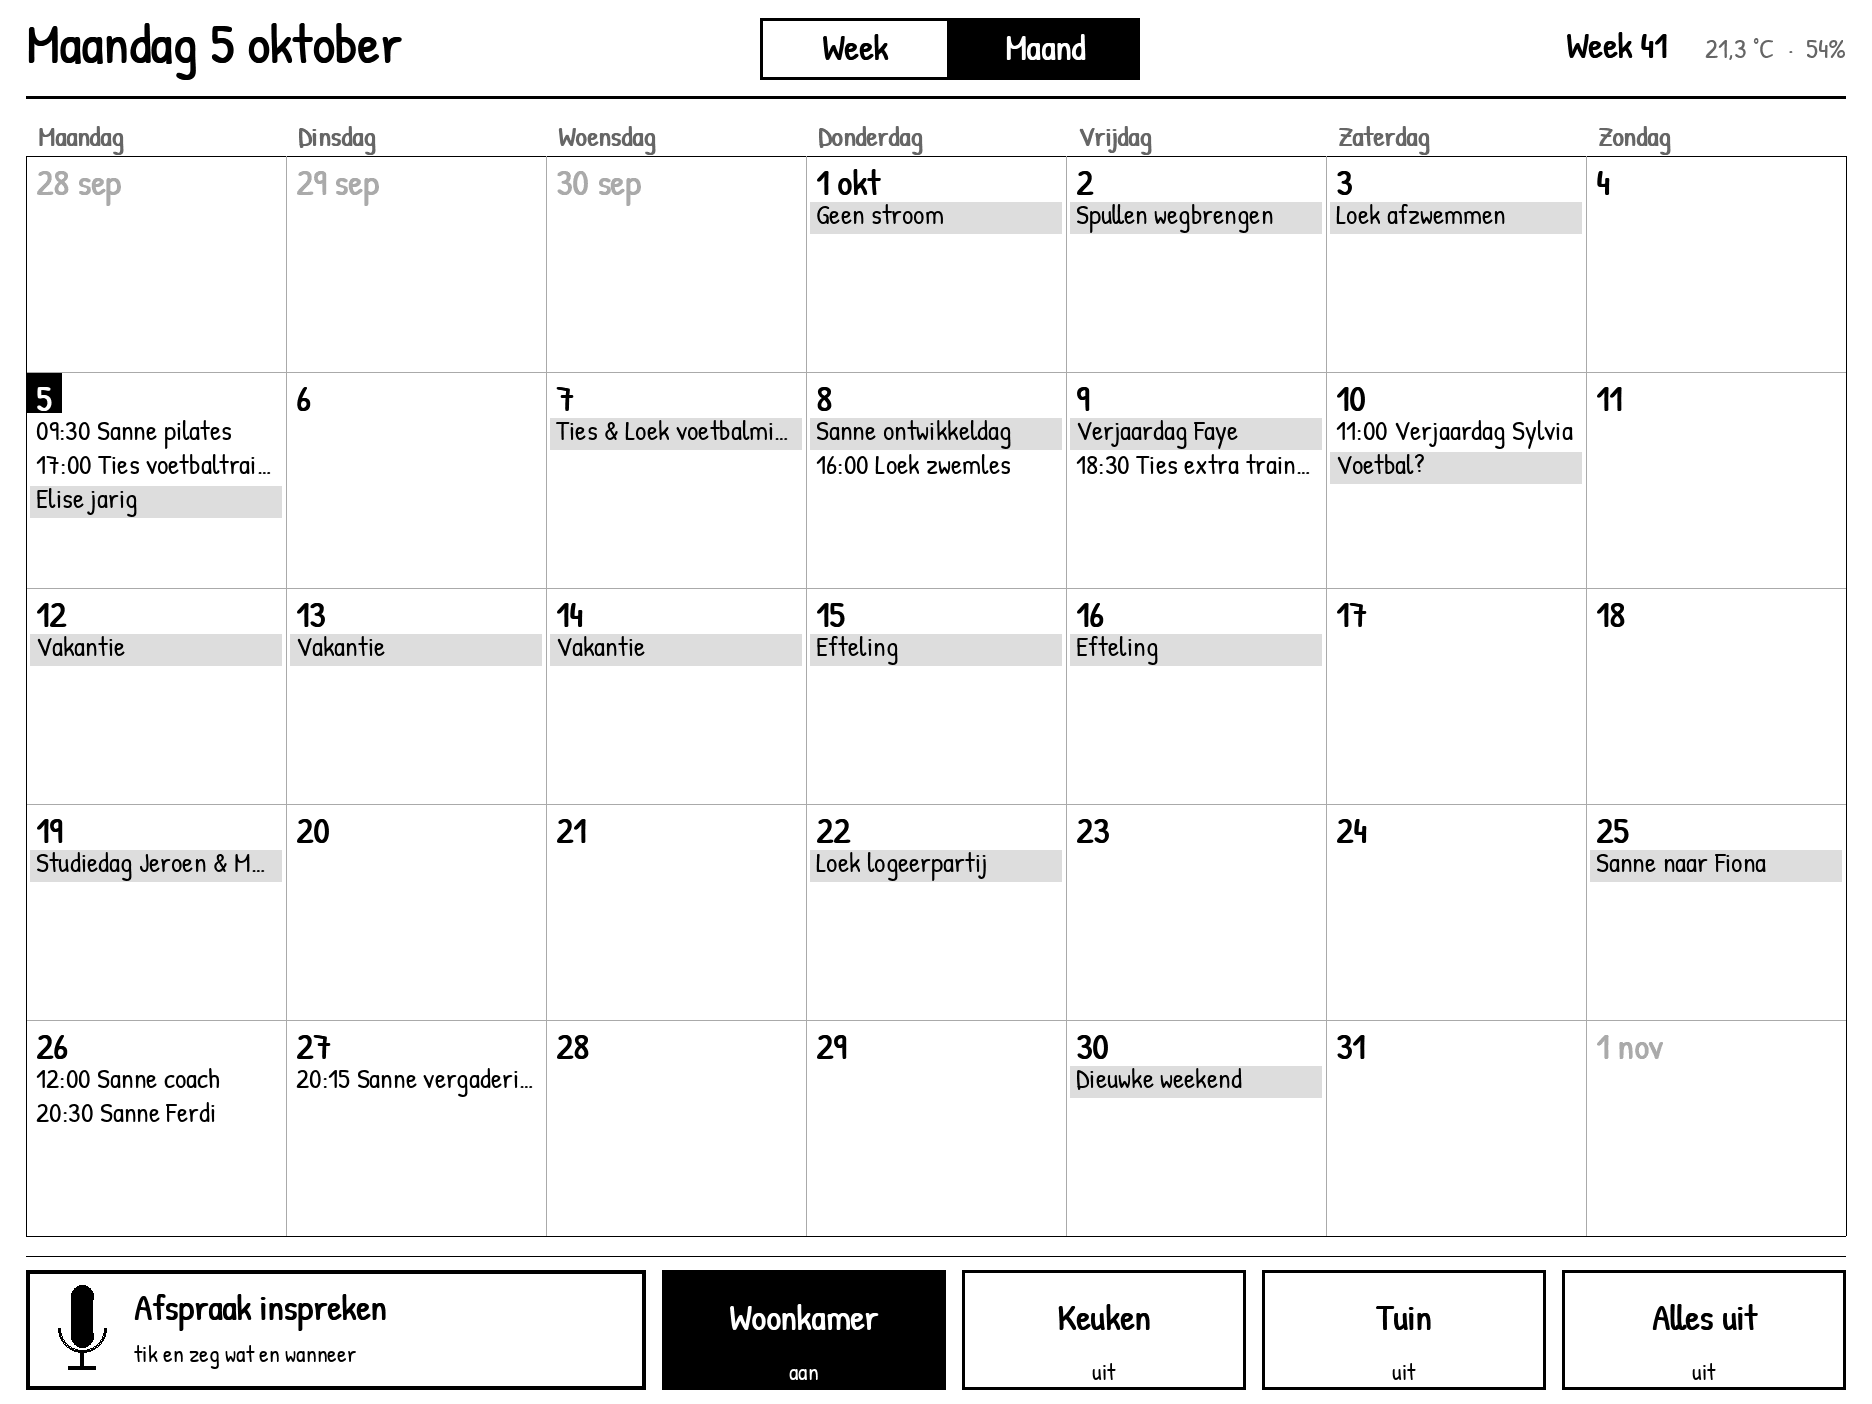
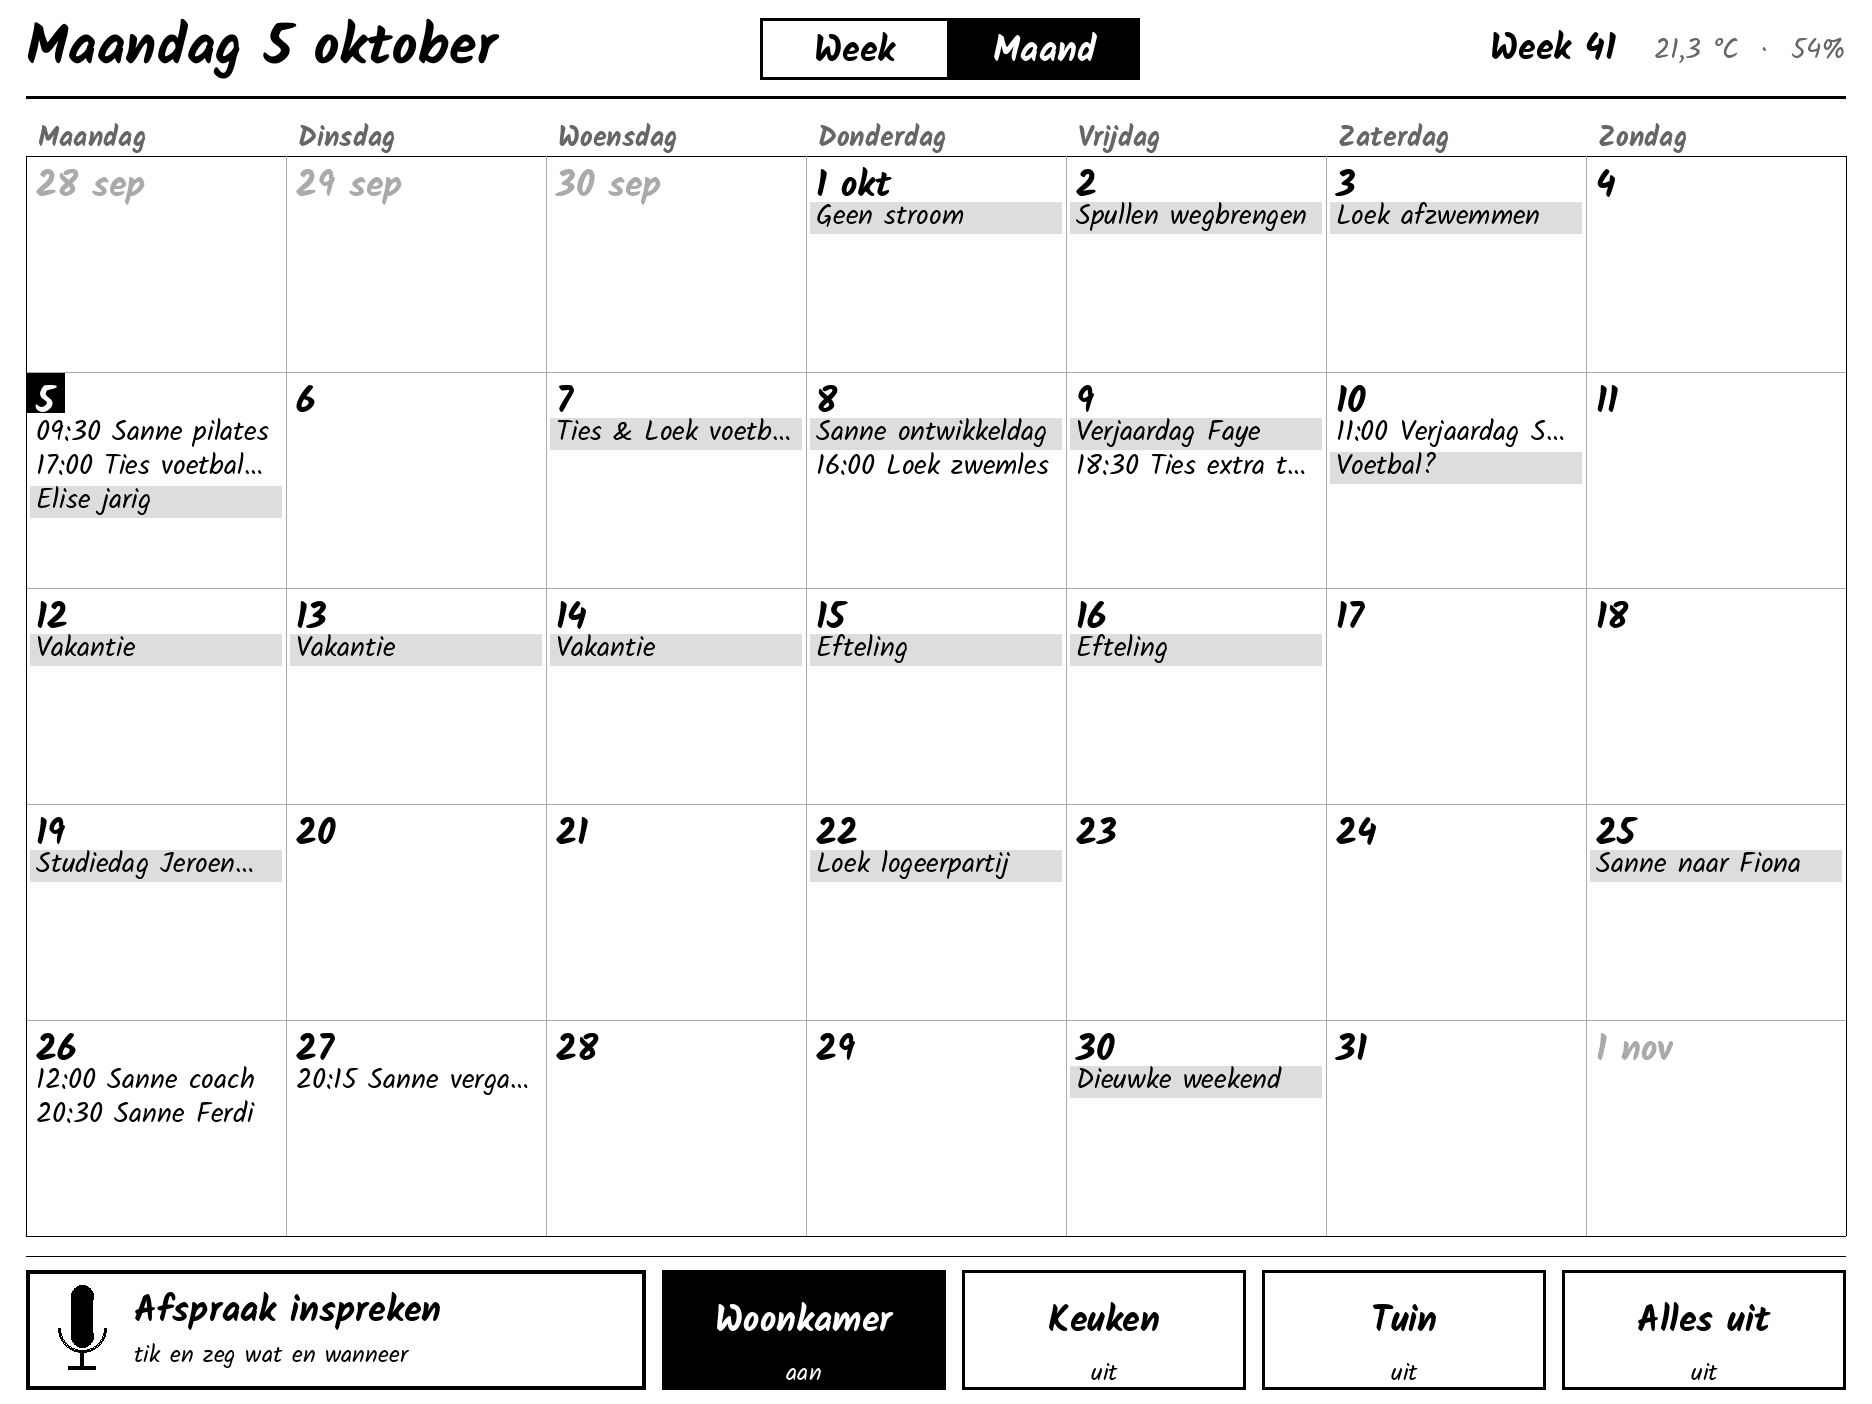
Use Kalam (with real bold) as default font
Claude-Session: https://claude.ai/code/session_016Q8iTAxGynamuoJ2KD6AXo

diff --git a/tools/preview/render.py b/tools/preview/render.py
@@ -22,13 +22,13 @@ FONTS = HIER / "fonts"
 UIT = ROOT / "docs"
 
 # Moet overeenkomen met de font:-sectie in esphome/ink-kalender.yaml.
-FAMILIE = "Patrick Hand"  # = substitution 'lettertype'
-FONT_DEFS = [  # (naam, gewicht, grootte); Patrick Hand heeft alleen 400
+FAMILIE = "Kalam"  # = substitution 'lettertype'
+FONT_DEFS = [  # (naam, gewicht, grootte)
     ("klein", 400, 24),
     ("normaal", 400, 28),
-    ("vet", 400, 28),
-    ("kop", 400, 36),
-    ("groot", 400, 56),
+    ("vet", 700, 28),
+    ("kop", 700, 36),
+    ("groot", 700, 56),
 ]
 SCENARIOS = ["week", "maand", "luisteren", "voorstel", "melding"]
 TEKENS = list(range(32, 0x250)) + [0x2013, 0x2018, 0x2019, 0x201C, 0x201D, 0x2026]

diff --git a/tools/preview/preview.cpp b/tools/preview/preview.cpp
@@ -38,7 +38,7 @@ int main(int argc, char **argv) {
   const char *scenario = argc > 1 ? argv[1] : "week";
 
   BaseFont klein{"klein", 0}, normaal{"normaal", 1}, vet{"vet", 2}, kop{"kop", 3}, groot{"groot", 4};
-  ink::Fonts f{&klein, &normaal, &vet, &kop, &groot, true};
+  ink::Fonts f{&klein, &normaal, &vet, &kop, &groot, false};
 
   ink::Staat &s = ink::staat();
   s.vandaag = {2026, 10, 5};

diff --git a/README.md b/README.md
@@ -8,7 +8,7 @@ Vervangt het whiteboard op de koelkast door een Seeed reTerminal E1003
     HA-takenlijst), net als op het whiteboard.
   - **Maand**: het hele maandrooster. Na 5 minuten springt het scherm vanzelf terug
     naar de week.
-- **Handschrift-look**: lettertype Patrick Hand.
+- **Handschrift-look**: lettertype Kalam.
 - **Knoppen**: vier knoppen om lampen, scripts en dergelijke in HA aan of uit te zetten.
 - **Afspraak inspreken** (alleen via de knop, geen wake word): tik op de knop en zeg bijvoorbeeld "zaterdag half drie
   verjaardag oma". Het scherm laat zien wat het begrepen heeft; pas na
